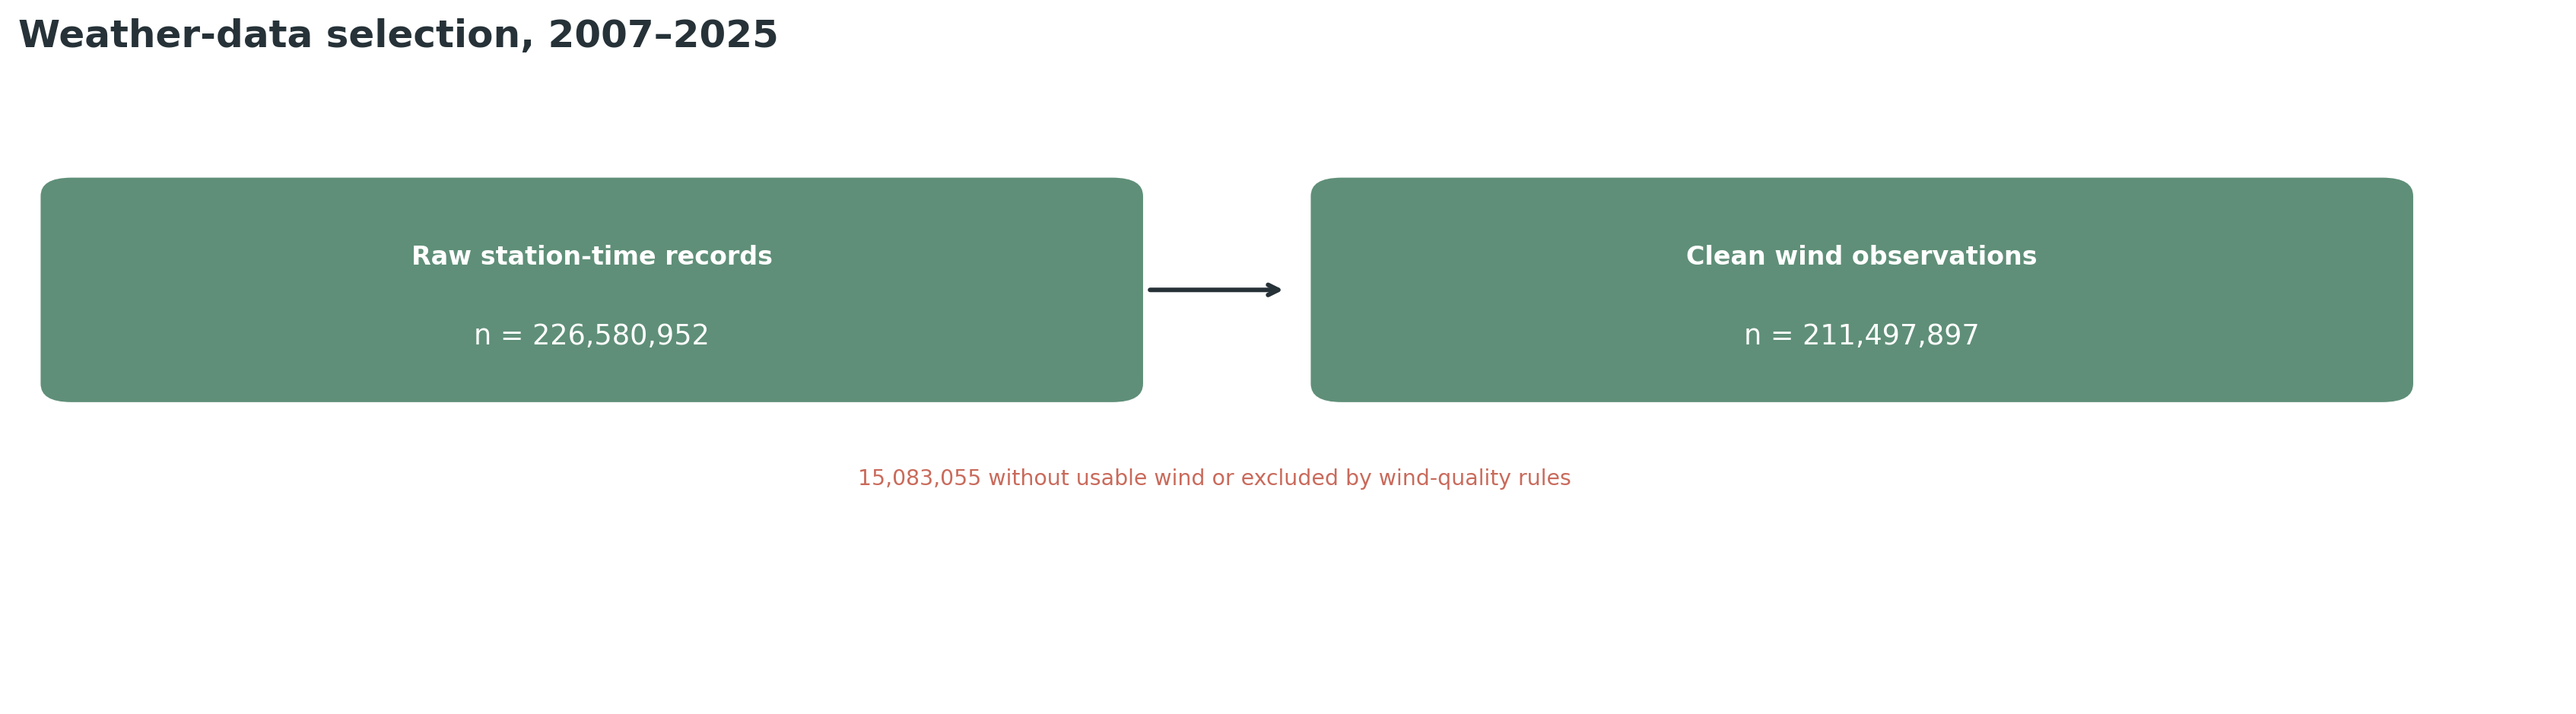
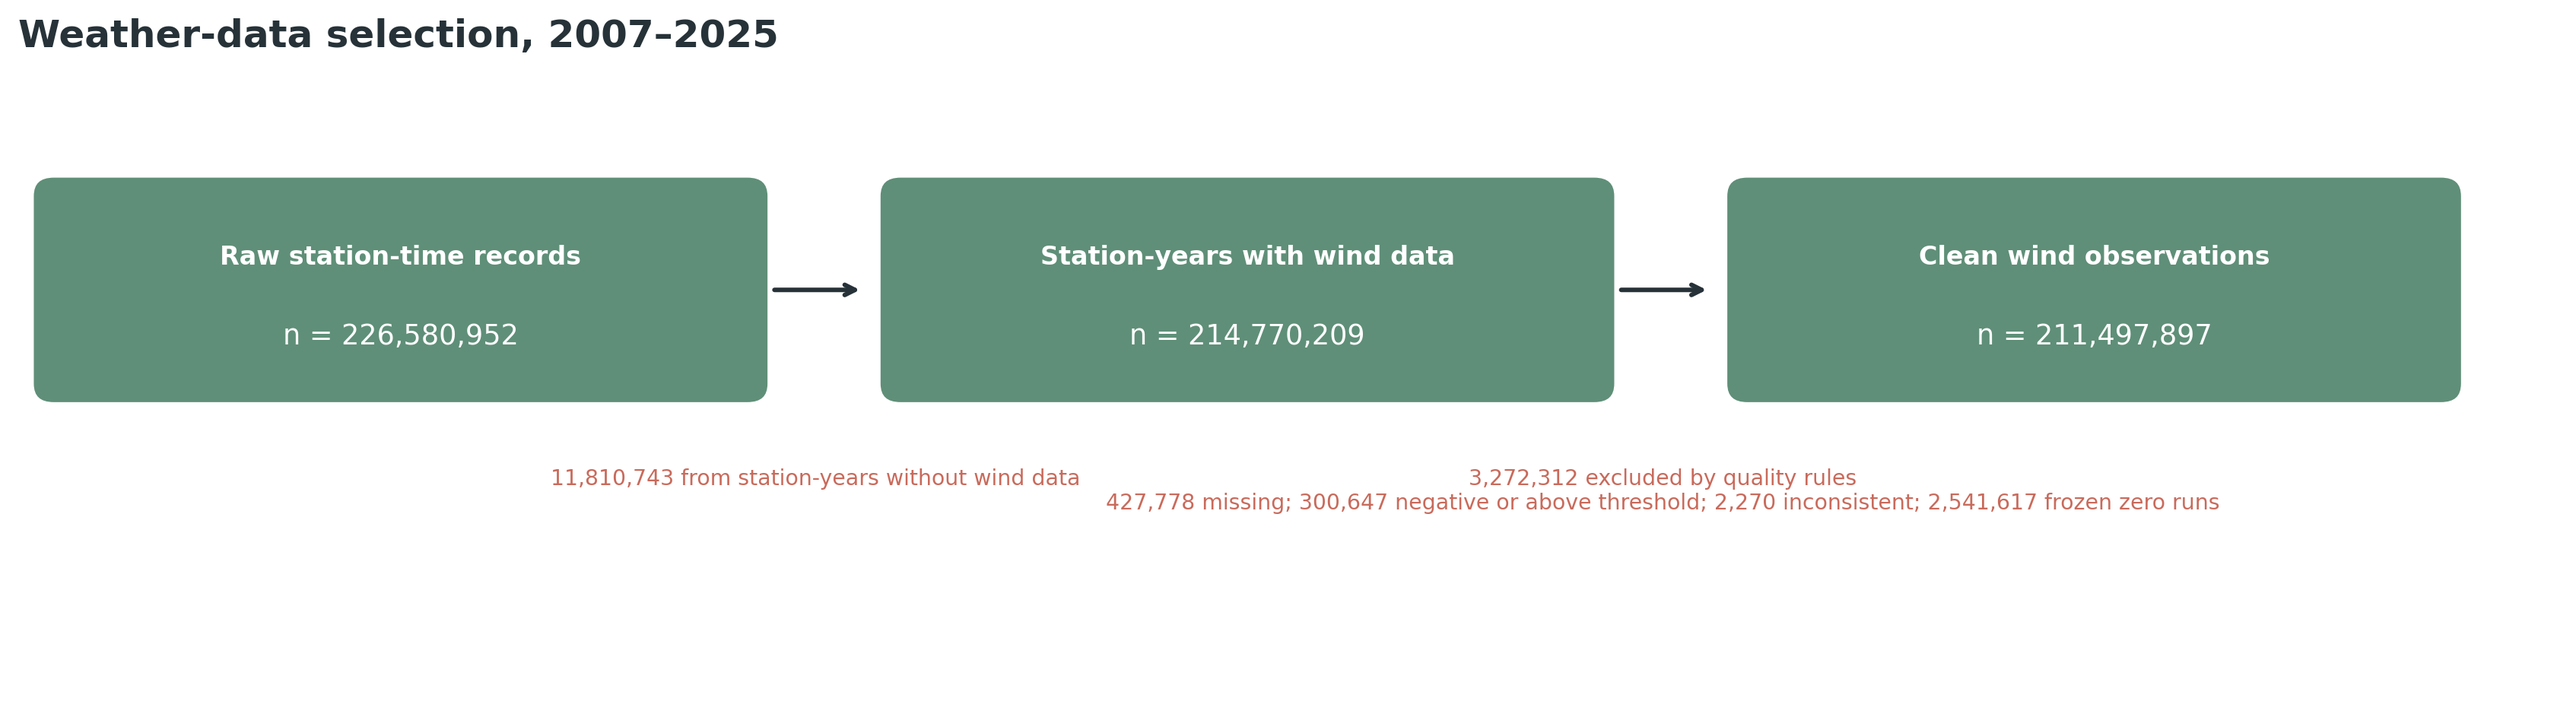
Simplify accident fields and weather selection flow

diff --git a/src/figures/data_flow.py b/src/figures/data_flow.py
@@ -76,14 +76,30 @@ def accident_figure() -> None:
 def weather_figure() -> None:
     audit = pd.read_csv(WEATHER_AUDIT)
     raw = int(audit.loc[audit.metric.eq("raw_10_minute_rows"), "value"].iloc[0])
+    wind_capable = raw - int(
+        audit.loc[audit.metric.eq("station_year_without_wind_data"), "value"].iloc[0]
+    )
     retained = int(audit.loc[audit.metric.eq("clean_wind_rows"), "value"].iloc[0])
-    excluded = raw - retained
+    no_wind_year = raw - wind_capable
+    missing = int(audit.loc[audit.metric.eq("missing_wind_in_wind_capable_station_year"), "value"].iloc[0])
+    inconsistent = int(audit.loc[audit.metric.eq("fg_zero_with_positive_f"), "value"].iloc[0]) + int(
+        audit.loc[audit.metric.eq("fg_below_f_beyond_tolerance"), "value"].iloc[0]
+    )
+    frozen = int(audit.loc[audit.metric.eq("frozen_zero_runs"), "value"].iloc[0])
+    quality_excluded = wind_capable - retained
+    invalid = quality_excluded - missing - inconsistent - frozen
     flow(
         OUT / "weather_flow.png",
         "Weather-data selection, 2007–2025",
         [
             ("Raw station-time records", raw, ""),
-            ("Clean wind observations", retained, f"{count(excluded)} without usable wind or excluded by wind-quality rules"),
+            ("Station-years with wind data", wind_capable, f"{count(no_wind_year)} from station-years without wind data"),
+            (
+                "Clean wind observations", retained,
+                f"{count(quality_excluded)} excluded by quality rules\n"
+                f"{count(missing)} missing; {count(invalid)} negative or above threshold; "
+                f"{count(inconsistent)} inconsistent; {count(frozen)} frozen zero runs",
+            ),
         ],
     )
 

diff --git a/src/accidents/build.py b/src/accidents/build.py
@@ -26,21 +26,20 @@ def read_accident_file(path: Path, newer_format: bool) -> pd.DataFrame:
         {
             "nid": "nid", "Dagsetning": "date_text", "Tími": "time_text",
             "xhnit": "x_3057", "yhnit": "y_3057", "meidsli": "meidsli",
-            "tegohapps": "tegohapps", "stadsetn": "stadsetn", "flokkur2": "flokkur2",
+            "tegohapps": "tegohapps", "stadsetn": "stadsetn",
         }
         if not newer_format
         else {
             "NID": "nid", "Dagsetning": "date_text", "Tími": "time_text",
             "Xhnit": "x_3057", "Yhnit": "y_3057", "Meiðsli": "meidsli",
             "Tegund óhapps": "tegohapps", "Staðsetning": "stadsetn",
-            "Tegund óhapps - yfirflokkur": "flokkur2",
         }
     )
     missing = set(names) - set(source.columns)
     if missing:
         raise ValueError(f"{path} is missing expected source columns: {sorted(missing)}")
     accidents = source[list(names)].rename(columns=names).copy()
-    for column in ["nid", "x_3057", "y_3057", "meidsli", "tegohapps", "flokkur2"]:
+    for column in ["nid", "x_3057", "y_3057", "meidsli", "tegohapps"]:
         accidents[column] = pd.to_numeric(accidents[column], errors="coerce")
     accidents["timestamp"] = pd.to_datetime(
         accidents["date_text"].fillna("") + " " + accidents["time_text"].fillna(""),

diff --git a/src/accidents/urban.py b/src/accidents/urban.py
@@ -55,7 +55,7 @@ def load_accidents() -> pd.DataFrame:
         )
     accidents = pd.read_csv(RAW_ACCIDENTS_FILE, sep="\t", dtype=str)
     accidents.columns = [column.strip() for column in accidents.columns]
-    for column in ["nid", "xhnit", "yhnit", "meidsli", "tegohapps", "flokkur2"]:
+    for column in ["nid", "xhnit", "yhnit", "meidsli", "tegohapps"]:
         accidents[column] = pd.to_numeric(accidents[column], errors="coerce")
     accidents = accidents.dropna(subset=["nid", "xhnit", "yhnit"]).copy()
     to_wgs84 = Transformer.from_crs("EPSG:3057", "EPSG:4326", always_xy=True)
